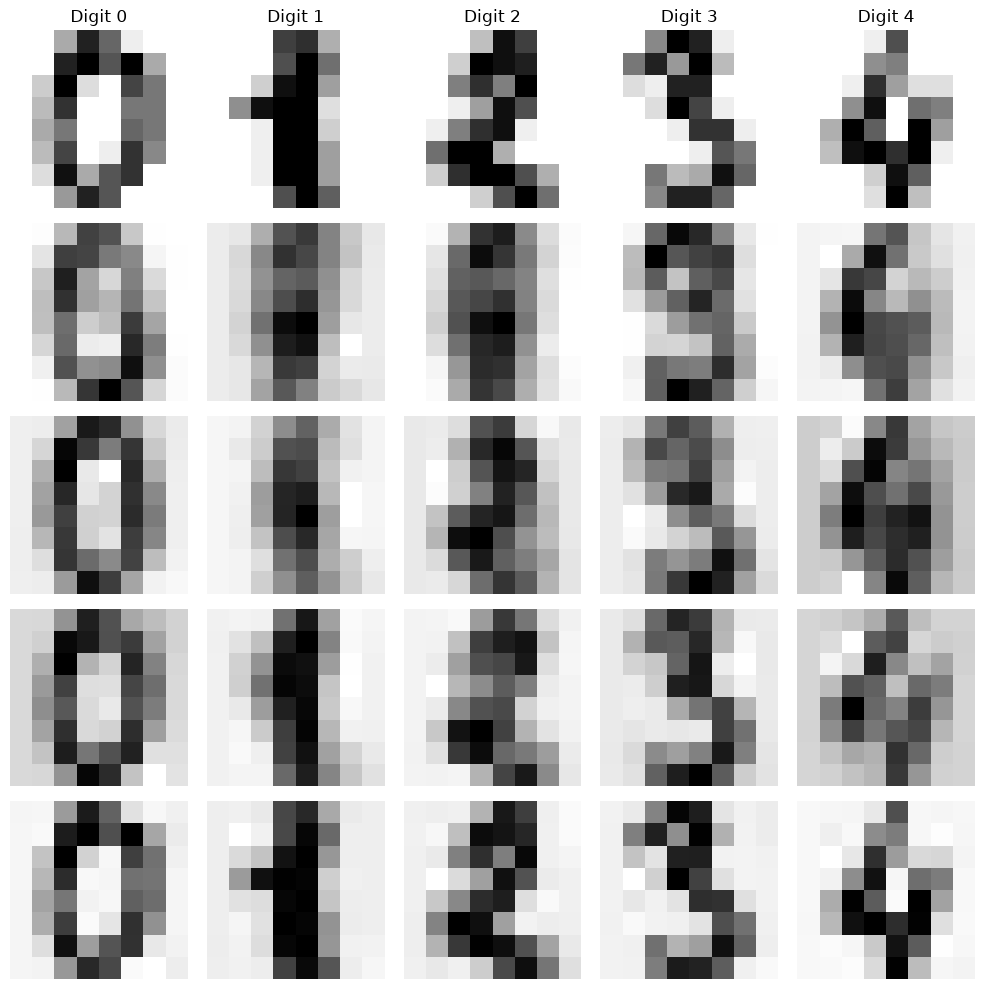
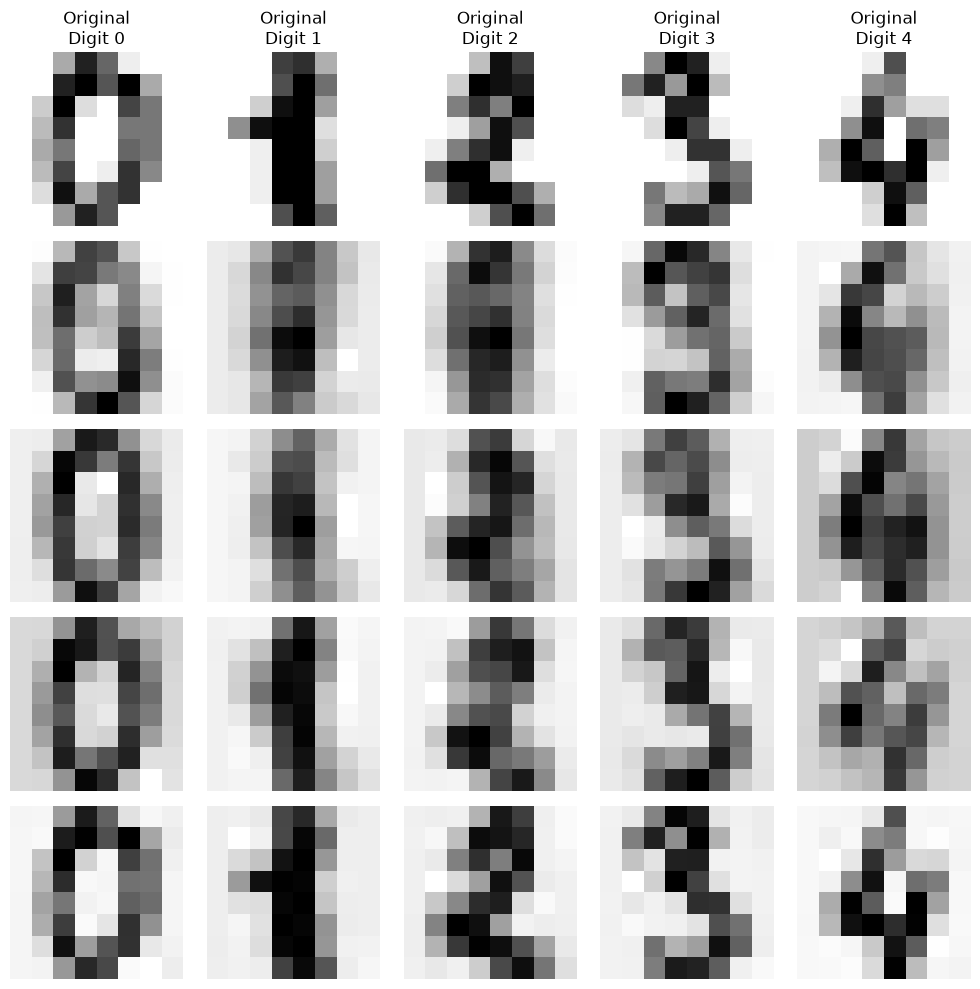
assignments_03

diff --git a/assignments_03/project_03.py b/assignments_03/project_03.py
@@ -211,8 +211,8 @@ tree_pred = tree_final.predict(X_test)
 print("Tree Accuracy:", accuracy_score(y_test, tree_pred))
 print(classification_report(y_test, tree_pred))
 
-# I chose max_depth=10 because it balances training and test accuracy.
-# Very deep trees can overfit, while small trees can miss patterns.
+# Based on the comparison above, max_depth=10 gave the best balance
+# between training and test accuracy, so it was selected as the final model.
 
 # Random Forest
 rf = RandomForestClassifier(n_estimators=100, random_state=42)
@@ -357,6 +357,8 @@ print("std:", log_reg_pca_cv.std())
 # Task 5: Building a Prediction Pipeline
 
 # Random Forest pipeline 
+# Tree-based models do not require feature scaling,
+# so this pipeline only includes the classifier
 rf_pipeline = Pipeline([
     ("classifier", RandomForestClassifier(n_estimators=100, random_state=42))
     ])

diff --git a/assignments_03/warmup_03.py b/assignments_03/warmup_03.py
@@ -143,6 +143,7 @@ images   = digits.images  # same data shaped as 8x8 images for plotting
 print("X_digits Shape:", X_digits.shape)
 print("Images Shape:", images.shape)
 fig, ax = plt.subplots(1, 10, figsize=(12, 2)) 
+# Display the first example found for each digit class (0-9)
 for digit in range(10):
    idx = np.where(y_digits == digit)[0][0]
    ax[digit].imshow(images[idx],  cmap='gray_r')
@@ -201,7 +202,7 @@ fig, ax = plt.subplots(5, 5, figsize=(10, 10))
 # Original images
 for col, sample_idx in enumerate(sample_indices):
     ax[0, col].imshow(images[sample_idx], cmap="gray_r")
-    ax[0, col].set_title(f"Digit {y_digits[sample_idx]}")
+    ax[0, col].set_title(f"Original\nDigit {y_digits[sample_idx]}")
     ax[0, col].axis("off")
 ax[0, 0].set_ylabel ("Original", fontsize=12)
 
